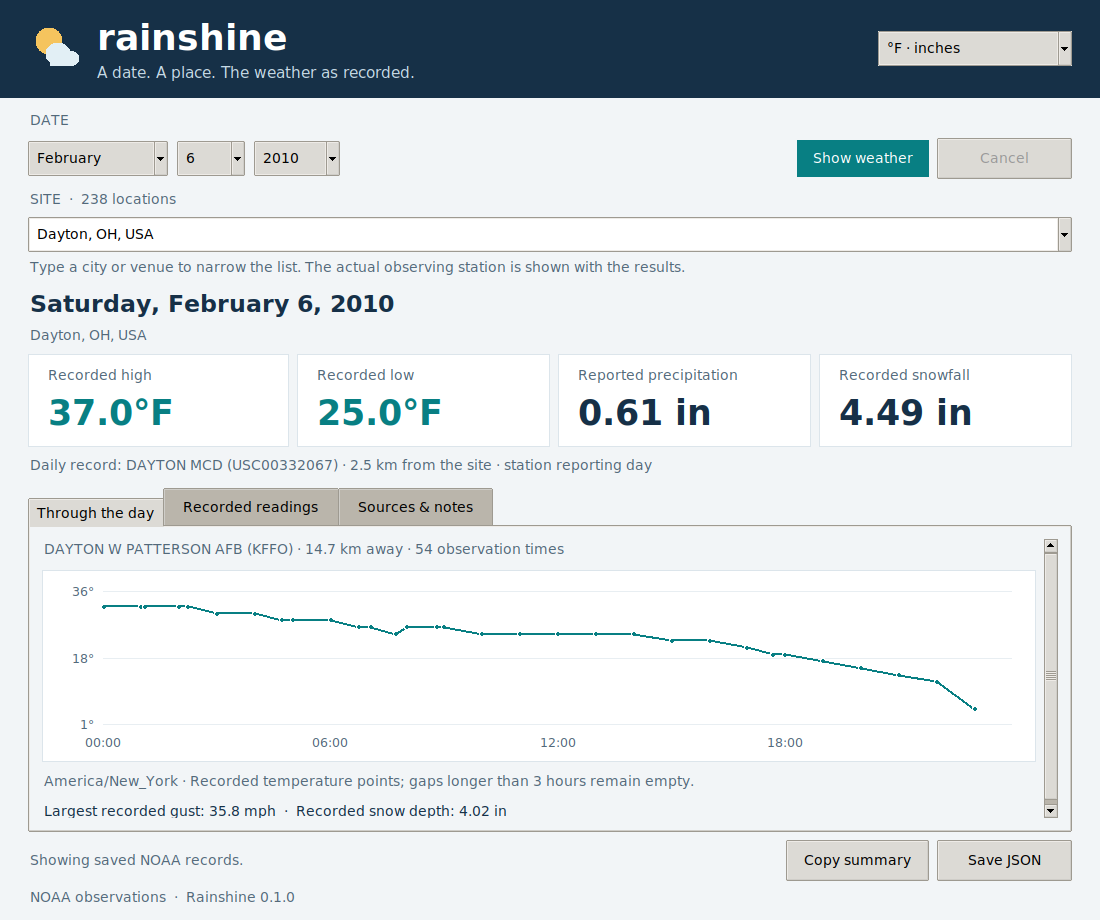
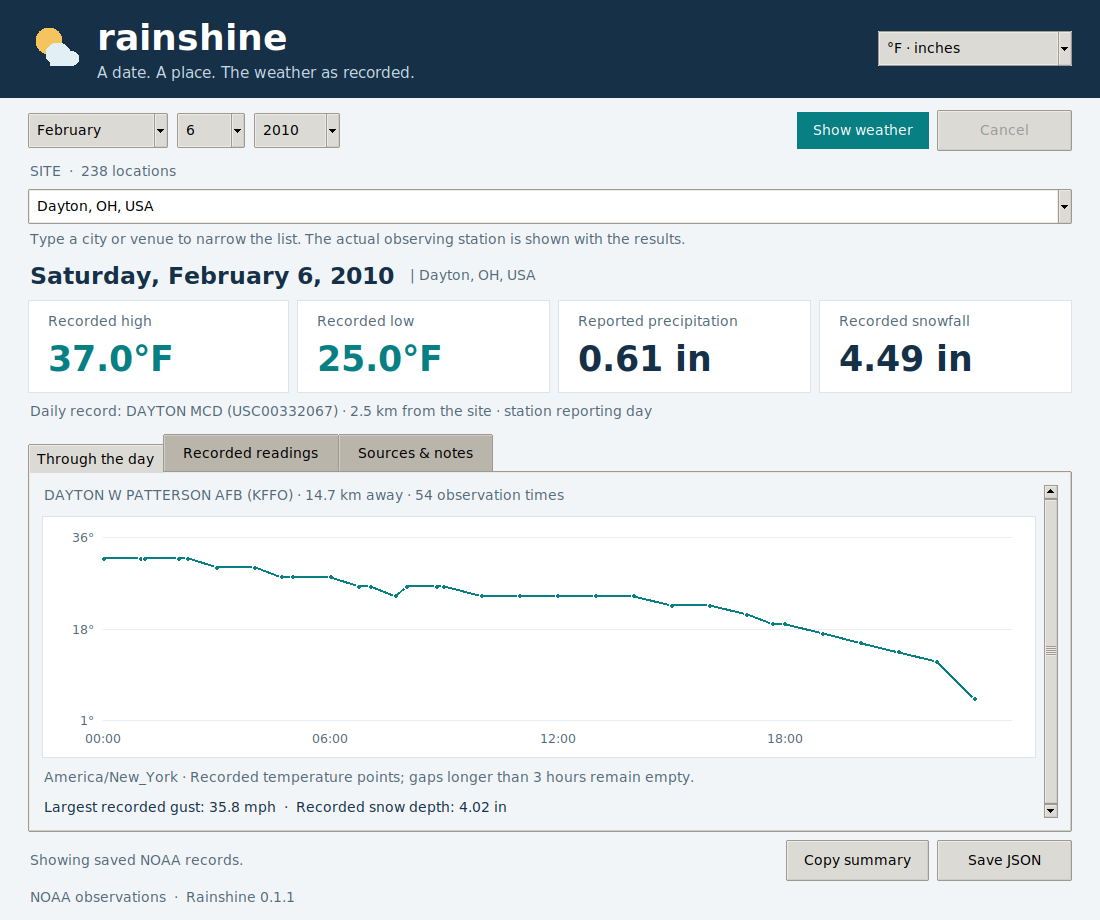
Give the weather graph more room in Rainshine 0.1.1
Remove the redundant DATE caption and display the selected location beside the bold result date with a pipe separator. Wrap long location names within the available width, keep the graph area flexible, and refresh the README screenshot.

diff --git a/src/rainshine/gui.py b/src/rainshine/gui.py
@@ -101,7 +101,6 @@ class RainshineApp:
         controls = ttk.Frame(root, padding=(28, 12, 28, 10))
         controls.grid(row=1, column=0, sticky="ew")
         controls.grid_columnconfigure(5, weight=1)
-        ttk.Label(controls, text="DATE", style="Muted.TLabel").grid(row=0, column=0, columnspan=3, sticky="w", pady=(0, 7))
         self.month_box = ttk.Combobox(controls, textvariable=self.month, values=tuple(calendar.month_name)[1:], state="readonly", width=12)
         self.day_box = ttk.Combobox(controls, textvariable=self.day, values=days_in_month(1989, 1), state="readonly", width=4)
         self.year_box = ttk.Combobox(controls, textvariable=self.year, values=tuple(range(MIN_DATE.year, MAX_DATE.year + 1)), state="readonly", width=6)
@@ -125,13 +124,16 @@ class RainshineApp:
         body = ttk.Frame(root, padding=(28, 0, 28, 0))
         body.grid(row=3, column=0, sticky="nsew")
         body.grid_columnconfigure(0, weight=1)
-        body.grid_rowconfigure(4, weight=1)
-        self.heading = ttk.Label(body, text="", style="Heading.TLabel")
+        body.grid_rowconfigure(3, weight=1)
+        self.result_heading = ttk.Frame(body)
+        self.result_heading.grid(row=0, column=0, sticky="ew", pady=(0, 8))
+        self.result_heading.grid_columnconfigure(1, weight=1)
+        self.heading = ttk.Label(self.result_heading, text="", style="Heading.TLabel")
         self.heading.grid(row=0, column=0, sticky="w")
-        self.subtitle = ttk.Label(body, text="", style="Muted.TLabel", wraplength=950)
-        self.subtitle.grid(row=1, column=0, sticky="w", pady=(5, 8))
+        self.subtitle = ttk.Label(self.result_heading, text="", style="Muted.TLabel", wraplength=550)
+        self.subtitle.grid(row=0, column=1, sticky="w", padx=(12, 0))
         cards = ttk.Frame(body)
-        cards.grid(row=2, column=0, sticky="ew", pady=(0, 8))
+        cards.grid(row=1, column=0, sticky="ew", pady=(0, 8))
         self.metrics = {}
         for column, (key, title) in enumerate((("TMAX", "Recorded high"), ("TMIN", "Recorded low"), ("PRCP", "Reported precipitation"), ("SNOW", "Recorded snowfall"))):
             cards.grid_columnconfigure(column, weight=1, uniform="metric")
@@ -142,9 +144,9 @@ class RainshineApp:
             label.pack(anchor="w", pady=(4, 0))
             self.metrics[key] = label
         self.daily_source = ttk.Label(body, text="", style="Muted.TLabel", wraplength=950)
-        self.daily_source.grid(row=3, column=0, sticky="w", pady=(0, 12))
+        self.daily_source.grid(row=2, column=0, sticky="w", pady=(0, 12))
         self.tabs = ttk.Notebook(body)
-        self.tabs.grid(row=4, column=0, sticky="nsew")
+        self.tabs.grid(row=3, column=0, sticky="nsew")
         overview, readings, sources = (ttk.Frame(self.tabs, padding=12) for _ in range(3))
         self.tabs.add(overview, text="Through the day")
         self.tabs.add(readings, text="Recorded readings")
@@ -221,11 +223,16 @@ class RainshineApp:
         if event.widget is self.root:
             width = event.width
             self.footer_label.configure(wraplength=max(300, width - 390))
-            for label in (self.subtitle, self.daily_source):
-                label.configure(wraplength=max(300, width - 65))
+            self.daily_source.configure(wraplength=max(300, width - 65))
+            self._fit_result_heading(width)
             for label in (self.hourly_source, self.chart_note, self.extra):
                 label.configure(wraplength=max(300, width - 100))
             self.root.after_idle(self._resize_overview)
+
+    def _fit_result_heading(self, width=None):
+        width = width if width is not None else max(self.root.winfo_width(), 920)
+        available = max(180, width - 56 - self.heading.winfo_reqwidth() - 12)
+        self.subtitle.configure(wraplength=available)
 
     def _resize_overview(self, event=None):
         view, content = self.overview_view, self.overview_content
@@ -342,7 +349,8 @@ class RainshineApp:
 
     def _render_empty(self, title: str, subtitle: str):
         self.heading.configure(text=title)
-        self.subtitle.configure(text=subtitle)
+        self.subtitle.configure(text=f"| {subtitle}" if subtitle else "")
+        self._fit_result_heading()
         for label in self.metrics.values():
             label.configure(text="—")
         self.daily_source.configure(text="Daily station records will appear here. — means not recorded.")
@@ -359,7 +367,8 @@ class RainshineApp:
         if report is None:
             return
         self.heading.configure(text=day_title(report))
-        self.subtitle.configure(text=report.location.name)
+        location_name = report.location.name.replace(" – ", ", ")
+        self.subtitle.configure(text=f"| {location_name}")
         d = report.daily
         values = d.readings if d else {}
         for key in ("TMAX", "TMIN"):
@@ -395,7 +404,7 @@ class RainshineApp:
         self.save_button.configure(state="normal")
         if report.status == "future":
             self.heading.configure(text="No recorded weather yet")
-            self.subtitle.configure(text=f"{day_title(report)} · {report.location.name}")
+            self.subtitle.configure(text=f"| {day_title(report)} · {location_name}")
             self.status.set(report.notes[0])
         elif report.status in {"unavailable", "error"}:
             self.status.set(report.notes[0])
@@ -405,6 +414,7 @@ class RainshineApp:
             if (d and d.stale) or (h and h.stale):
                 cached = "Showing previously downloaded records; NOAA could not be refreshed."
             self.status.set(("Partial record. " if report.status == "partial" else "") + cached)
+        self._fit_result_heading()
         self._draw_chart()
 
     def _draw_chart(self):

diff --git a/src/rainshine/__init__.py b/src/rainshine/__init__.py
@@ -1,3 +1,3 @@
 """Rainshine: recorded weather, presented simply."""
 
-__version__ = "0.1.0"
+__version__ = "0.1.1"
